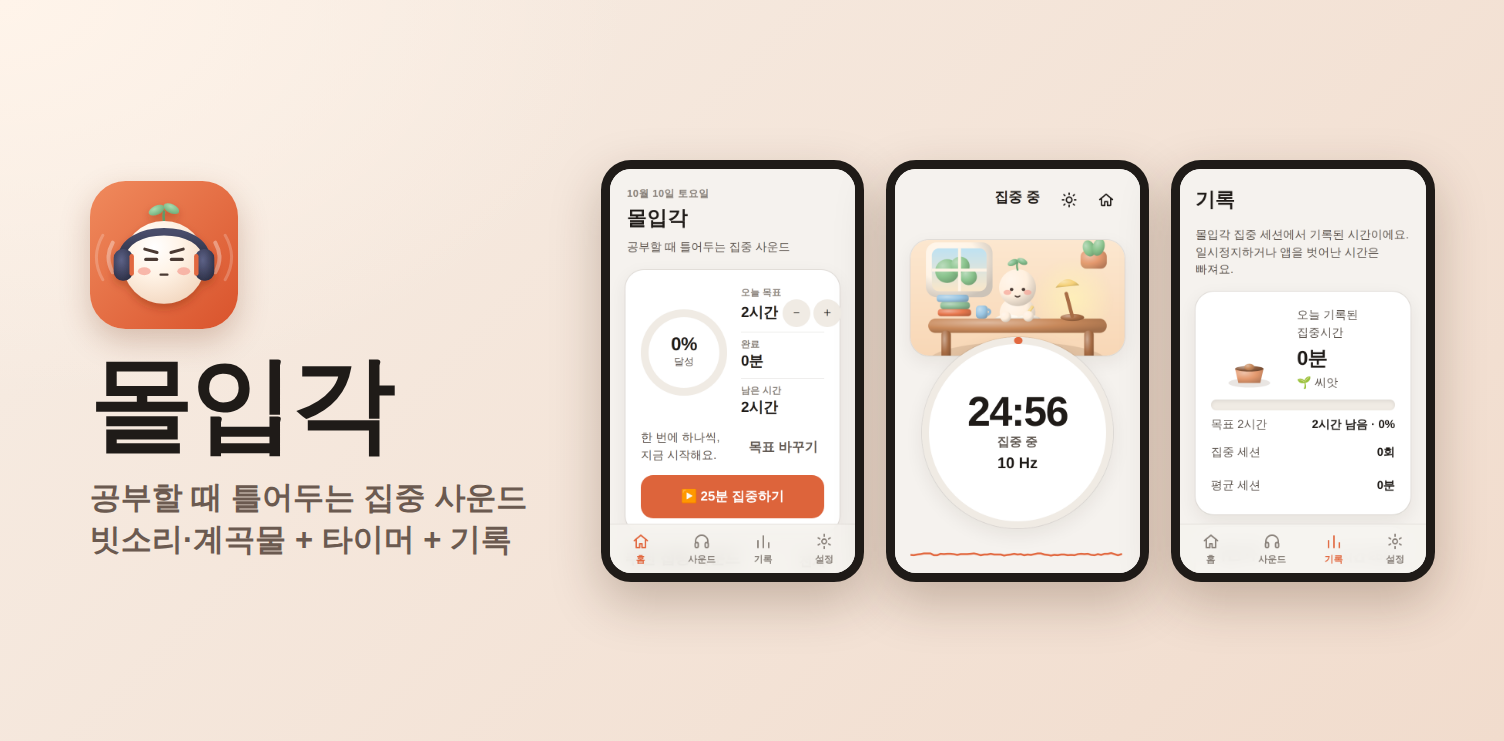
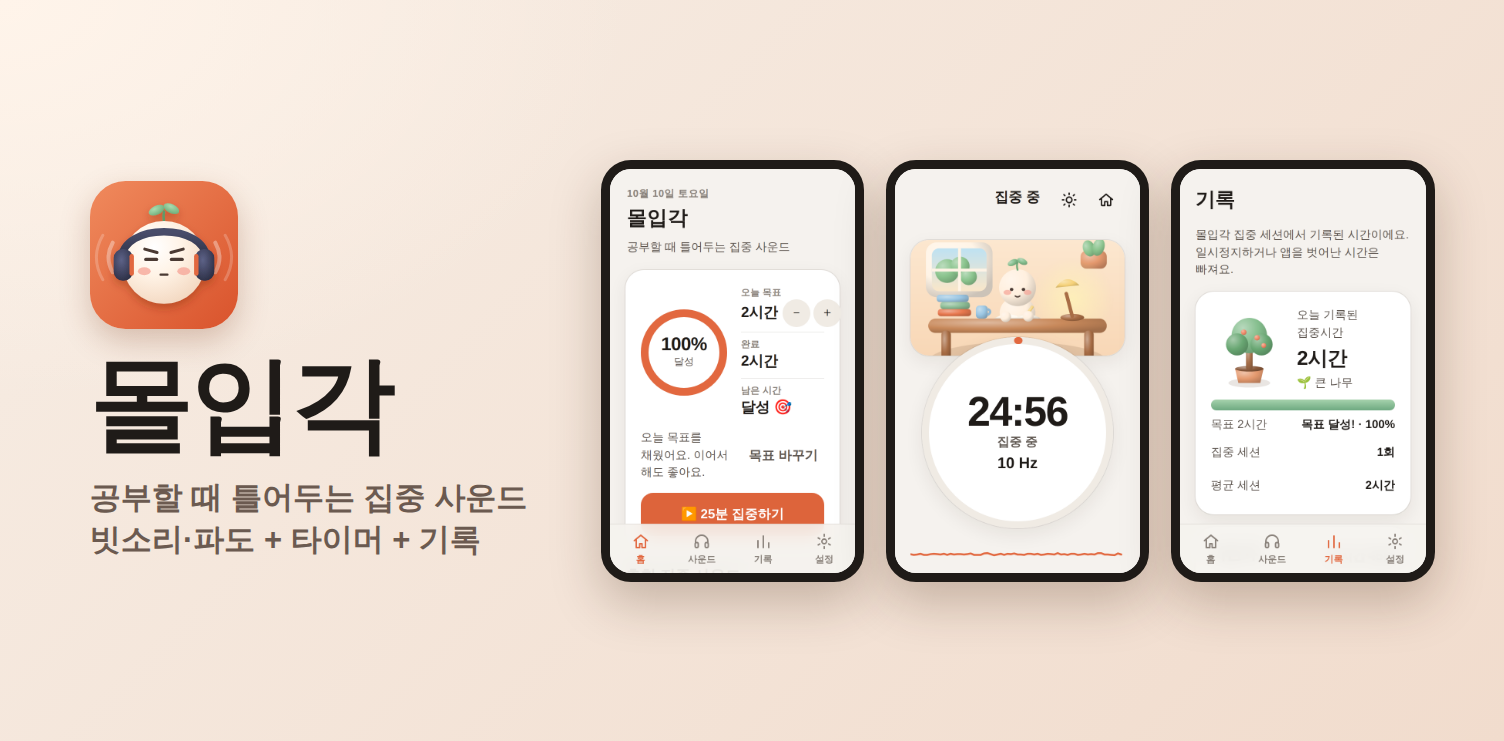
Sounds: drizzle (보슬비) replaces eaves rain; valley stream retired
- rain_01 is now a fine, light drizzle: airy hiss, many tiny quiet drops,
  almost no heavy ones; eaves drips removed; loudness recalibrated
- stream_01 (계곡물) removed; recipes 파도 몰입 and 산바람 호흡 take the
  place of the stream recipes; quick picks updated (18 sounds)
- Store screenshots pin the clock to the afternoon so the sample week
  always shows today's progress
- Checks, console text, promo copy and README follow

Claude-Session: https://claude.ai/code/session_01HfKwmXDDrsS3TG1hgAu2GZ

diff --git a/src/audio/ambient/synths.ts b/src/audio/ambient/synths.ts
@@ -87,20 +87,6 @@ const rainHeavy = (ctx: BaseAudioContext, key: string, perSecond: number) =>
     }
   });
 
-/** Water dripping from the eaves into a puddle: sparse soft "plip"s (pitch rising a little, like a drop into water), sometimes two close together. */
-const eaveDrips = (ctx: BaseAudioContext) =>
-  eventBuffer(ctx, 'eaves', 13.7, (L, R, sr, rnd) => {
-    let t = 0.3;
-    while (t < 13.4) {
-      const n = rnd() < 0.25 ? 2 : 1;
-      for (let k = 0; k < n; k++) {
-        const ev = ping(sr, rnd, 650 + rnd() * 650, 0.018 + rnd() * 0.018, 0.22 + 0.28 * rnd(), 0.12, 1.35 + rnd() * 0.25);
-        addEvent(L, R, Math.floor((t + k * (0.12 + rnd() * 0.1)) * sr), ev, rnd() * 1.2 - 0.6);
-      }
-      t += 1 + rnd() * 2;
-    }
-  });
-
 const crackles = (ctx: BaseAudioContext) =>
   eventBuffer(ctx, 'crackle', 12, (L, R, sr, rnd) => {
     let t = 0.05;
@@ -211,6 +197,8 @@ interface RainOpts {
   hiss: number;
   body: number;
   patter: number;
+  /** Level of the fine patter layer (default 1). */
+  patterGain?: number;
   heavy: number;
 }
 
@@ -236,7 +224,7 @@ function rainLayers(ctx: BaseAudioContext, dest: AudioNode, s: Sources, o: RainO
   wander(ctx, hiss.gain, `rain-hiss-${o.key}`, o.hiss * 0.25, 0.15, s);
   noiseBed(ctx, 'brown', chain(filt(ctx, 'lowpass', 220), out), o.body, s);
   // Each bed plays its buffer twice, so buffers hold half the target density.
-  eventBed(ctx, rainPatter(ctx, o.key, o.patter / 2), chain(filt(ctx, 'highpass', 1400), filt(ctx, 'lowpass', Math.min(16000, o.lp * 1.6)), out), 1, s);
+  eventBed(ctx, rainPatter(ctx, o.key, o.patter / 2), chain(filt(ctx, 'highpass', 1400), filt(ctx, 'lowpass', Math.min(16000, o.lp * 1.6)), out), o.patterGain ?? 1, s);
   const heavy = eventBed(ctx, rainHeavy(ctx, o.key, o.heavy / 2), chain(filt(ctx, 'highpass', 250), filt(ctx, 'lowpass', o.lp), out), 0.9, s);
   wander(ctx, heavy.gain, `rain-heavy-${o.key}`, 0.35, 0.07, s);
 }
@@ -246,11 +234,10 @@ const RECIPES: Record<SynthId, Recipe> = {
   pink: plainNoise('pink'),
   brown: plainNoise('brown'),
 
-  // 처마 밑 빗소리: gentle rain with water dripping now and then from the eaves into a puddle.
+  // 보슬비: fine, light drizzle — a soft airy hiss and many tiny quiet drops, almost no heavy ones.
   rain: (ctx, out) => {
     const s: Sources = [];
-    rainLayers(ctx, out, s, { key: 'eaves', lp: 5000, hiss: 0.42, body: 0.14, patter: 45, heavy: 5 });
-    eventBed(ctx, eaveDrips(ctx), chain(filt(ctx, 'lowpass', 2600), out), 0.6, s);
+    rainLayers(ctx, out, s, { key: 'drizzle', lp: 4500, hiss: 0.4, body: 0.1, patter: 110, patterGain: 0.45, heavy: 1 });
     return s;
   },
   softRain: (ctx, out) => {
@@ -318,19 +305,6 @@ const RECIPES: Record<SynthId, Recipe> = {
     return s;
   },
 
-  // 계곡물: water running softly over stones — a band of noise whose colour and level move quickly
-  // and irregularly, a gentle airy top and a low body. No pitched bubbles.
-  stream: (ctx, out) => {
-    const s: Sources = [];
-    const bp = filt(ctx, 'bandpass', 800, 0.7);
-    const flow = noiseBed(ctx, 'pink', chain(bp, out), 0.55, s);
-    wander(ctx, bp.frequency, 'brook-colour', 350, 2.2, s);
-    wander(ctx, flow.gain, 'brook-level', 0.18, 1.6, s);
-    const air = noiseBed(ctx, 'white', chain(filt(ctx, 'bandpass', 2600, 0.9), filt(ctx, 'lowpass', 5000), out), 0.06, s);
-    wander(ctx, air.gain, 'brook-air', 0.025, 3, s);
-    noiseBed(ctx, 'brown', chain(filt(ctx, 'lowpass', 300), out), 0.3, s);
-    return s;
-  },
   fire: (ctx, out) => {
     const s: Sources = [];
     const g = loop(ctx, noiseBuffer(ctx, 'brown'), chain(filt(ctx, 'lowpass', 450), out), 0.7, s);
@@ -384,11 +358,11 @@ const RECIPES: Record<SynthId, Recipe> = {
  */
 const RAW_DB: Record<SynthId, number> = {
   white: -14.0, pink: -14.0, brown: -14.0,
-  rain: -22.4, softRain: -21.2,
+  rain: -22.2, softRain: -21.2,
   waves: -18.2, slowWaves: -18.3,
   wind: -22.0, mountainWind: -23.7,
   forest: -30.2, birds: -30.6, nightForest: -28.1,
-  stream: -22.8, fire: -17.7,
+  fire: -17.7,
   train: -17.1, cityNight: -17.6,
   deepRumble: -12.9,
   calmPad: -22.6, lullaby: -23.7,

diff --git a/src/sounds/recipes.ts b/src/sounds/recipes.ts
@@ -19,8 +19,8 @@ export interface Recipe {
 }
 
 export const RECIPES: readonly Recipe[] = [
-  { id: 'focus-rain', mode: 'focus', name: '빗속 집중', desc: '처마 밑 빗소리 + 10Hz', beat: 10, tracks: [{ id: 'rain_01', volume: 0.55 }], intensity: 0.35, colors: ['#5b8def', '#23395d'] },
-  { id: 'focus-stream', mode: 'focus', name: '계곡 몰입', desc: '계곡물 + 핑크 노이즈 + 12Hz', beat: 12, tracks: [{ id: 'stream_01', volume: 0.5 }, { id: 'noise_pink', volume: 0.25 }], intensity: 0.3, colors: ['#5fb3c9', '#1d3b4a'] },
+  { id: 'focus-rain', mode: 'focus', name: '빗속 집중', desc: '보슬비 + 10Hz', beat: 10, tracks: [{ id: 'rain_01', volume: 0.55 }], intensity: 0.35, colors: ['#5b8def', '#23395d'] },
+  { id: 'focus-waves', mode: 'focus', name: '파도 몰입', desc: '파도 + 핑크 노이즈 + 12Hz', beat: 12, tracks: [{ id: 'waves_01', volume: 0.5 }, { id: 'noise_pink', volume: 0.25 }], intensity: 0.3, colors: ['#5fb3c9', '#1d3b4a'] },
   { id: 'focus-deep', mode: 'focus', name: '밤 도시 딥워크', desc: '밤의 도시 + 브라운 노이즈 + 14Hz', beat: 14, tracks: [{ id: 'city_night_01', volume: 0.5 }, { id: 'noise_brown', volume: 0.3 }], intensity: 0.3, colors: ['#7a86c9', '#1f2340'] },
   { id: 'focus-fire', mode: 'focus', name: '장작불 공부', desc: '장작불 + 10Hz', beat: 10, tracks: [{ id: 'fire_01', volume: 0.55 }], intensity: 0.35, colors: ['#f08a4b', '#4a1f1a'] },
   { id: 'focus-forest', mode: 'focus', name: '새벽 숲 워밍업', desc: '숲 + 새소리 + 8Hz', beat: 8, tracks: [{ id: 'forest_01', volume: 0.55 }, { id: 'birds_01', volume: 0.35 }], intensity: 0.3, colors: ['#5fb38a', '#1d3b34'] },
@@ -29,7 +29,7 @@ export const RECIPES: readonly Recipe[] = [
   { id: 'sleep-ocean', mode: 'sleep', name: '밤바다', desc: '밤바다 파도 + 2Hz', beat: 2, tracks: [{ id: 'sleep_waves_01', volume: 0.55 }], intensity: 0.25, colors: ['#3f86b8', '#0e1f3a'] },
   { id: 'sleep-forest', mode: 'sleep', name: '밤의 숲', desc: '밤의 숲 + 4Hz', beat: 4, tracks: [{ id: 'night_forest_01', volume: 0.55 }], intensity: 0.25, colors: ['#4f7a6a', '#0f1d22'] },
   { id: 'relax-forest', mode: 'relax', name: '숲 명상', desc: '숲 + 6Hz', beat: 6, tracks: [{ id: 'forest_01', volume: 0.55 }], intensity: 0.3, colors: ['#7cc49a', '#22413a'] },
-  { id: 'relax-stream', mode: 'relax', name: '계곡 호흡', desc: '계곡물 + 잔잔한 앰비언트 + 6Hz', beat: 6, tracks: [{ id: 'stream_01', volume: 0.5 }, { id: 'calm_pad_01', volume: 0.35 }], intensity: 0.3, colors: ['#e7a07a', '#5b3e64'] },
+  { id: 'relax-wind', mode: 'relax', name: '산바람 호흡', desc: '산바람 + 잔잔한 앰비언트 + 6Hz', beat: 6, tracks: [{ id: 'mountain_wind_01', volume: 0.5 }, { id: 'calm_pad_01', volume: 0.35 }], intensity: 0.3, colors: ['#e7a07a', '#5b3e64'] },
 ];
 
 export const recipesFor = (mode: UseCase) => RECIPES.filter((r) => r.mode === mode);

diff --git a/src/sounds/catalog.ts b/src/sounds/catalog.ts
@@ -29,9 +29,9 @@ export function soundsFor(useCase: UseCase): SoundMeta[] {
 
 /** Short picks shown directly on each mode screen (most useful first). */
 export const QUICK_PICKS: Record<UseCase, string[]> = {
-  focus: ['rain_01', 'stream_01', 'fire_01', 'waves_01', 'forest_01', 'noise_pink'],
+  focus: ['rain_01', 'fire_01', 'waves_01', 'forest_01', 'noise_pink', 'noise_brown'],
   sleep: ['soft_rain_01', 'sleep_waves_01', 'night_forest_01', 'wind_01', 'noise_brown', 'noise_pink', 'lullaby_01'],
-  relax: ['forest_01', 'mountain_wind_01', 'stream_01', 'birds_01', 'calm_pad_01'],
+  relax: ['forest_01', 'mountain_wind_01', 'waves_01', 'birds_01', 'calm_pad_01'],
 };
 
 /** Default mix per mode (first run). */

diff --git a/src/sounds/types.ts b/src/sounds/types.ts
@@ -9,7 +9,7 @@ export type SynthId =
   | 'waves' | 'slowWaves'
   | 'wind' | 'mountainWind'
   | 'forest' | 'birds' | 'nightForest'
-  | 'stream' | 'fire'
+  | 'fire'
   | 'train' | 'cityNight'
   | 'deepRumble'
   | 'calmPad' | 'lullaby';

diff --git a/README.md b/README.md
@@ -27,7 +27,7 @@ node scripts/build-preview.mjs [out.html] [web]  # 브라우저 미리보기용 
 |---|---|---|
 | 1 | 전체 UI/UX (Home·Focus·Sleep·Relax·Library·Mixer·Binaural·Timer·Result·Stats·Settings) | ✅ |
 | 2 | Binaural Beat 엔진 (L/R 분리, fade, ramp) | ✅ |
-| 3 | Ambient / Noise / Mixer (절차적 합성 19종 + 파일 교체 구조) | ✅ |
+| 3 | Ambient / Noise / Mixer (절차적 합성 18종 + 파일 교체 구조) | ✅ |
 | 4 | 타이머 (카운트다운·카운트업·목표, 시·분·초, 루틴, 수면 페이드 종료) | ✅ |
 | 5 | 집중시간 기록 (이탈 감지, 오늘/주/월/전체, 7일 그래프, 목표, 나무) | ✅ |
 | 5b | 자동 주파수 변화, 나의 루틴, 종료 방식 5종 | ✅ |
@@ -49,7 +49,7 @@ Anima: Binaural Beats와의 기능 비교와 차용 결정은 [docs/anima-compar
 
 ### 추천 사운드 · 강도 · 스피커용 · 내 믹스
 
-- **추천 사운드(레시피)** `src/sounds/recipes.ts`: 배경음 + 집중 사운드를 미리 묶은 11종(예: 계곡 몰입 = 계곡물+핑크노이즈+12Hz). 한 탭으로 적용.
+- **추천 사운드(레시피)** `src/sounds/recipes.ts`: 배경음 + 집중 사운드를 미리 묶은 11종(예: 파도 몰입 = 파도+핑크노이즈+12Hz). 한 탭으로 적용.
 - **강도**: 집중 사운드만 따로 줄이고 키우는 슬라이더(배경음 아래로 깔 수 있게).
 - **이어폰용 / 스피커용**: 이어폰용은 바이노럴 비트(좌우 다른 음), 스피커용은 아이소크로닉 톤(한 음을 규칙적으로 켜고 끔,
   `IsochronicTone.ts`). 연구 대부분은 바이노럴 비트 대상이며 아이소크로닉 톤 근거는 더 적다 — 앱은 효과를 주장하지 않는다.

diff --git a/store-assets/console-text.md b/store-assets/console-text.md
@@ -19,10 +19,10 @@
 ```
 공부할 때 틀어두는 집중 사운드, 몰입각.
 
-빗소리·계곡물·장작불 같은 배경음에 집중 사운드(바이노럴 비트)를 섞어 들으며
+보슬비·파도·장작불 같은 배경음에 집중 사운드(바이노럴 비트)를 섞어 들으며
 25분·50분·90분·2시간 타이머로 공부하고, 기록된 집중시간을 하루 목표와 함께 확인해요.
 
-• 추천 사운드: "빗속 집중", "계곡 몰입"처럼 미리 맞춘 조합을 한 번에
+• 추천 사운드: "빗속 집중", "파도 몰입"처럼 미리 맞춘 조합을 한 번에
 • 이어폰용·스피커용: 이어폰이 없어도 들을 수 있는 스피커용 모드
 • 내 믹스 저장: 마음에 드는 소리 조합을 이름 붙여 저장
 • 집중 이탈 감지: 집중 중 앱을 벗어나면 기록을 잠시 멈추고, 돌아오면 이어서
@@ -37,7 +37,7 @@
 ## 검색 키워드 (칸이 있으면)
 
 ```
-공부, 집중, 공부 사운드, 빗소리, 계곡물 소리, 백색소음, 뽀모도로, 타이머, 집중 타이머, 공부 기록, 수면 사운드, 바이노럴 비트, 알파파 사운드, 화이트노이즈, 핑크노이즈, 브라운노이즈
+공부, 집중, 공부 사운드, 빗소리, 보슬비 소리, 백색소음, 뽀모도로, 타이머, 집중 타이머, 공부 기록, 수면 사운드, 바이노럴 비트, 알파파 사운드, 화이트노이즈, 핑크노이즈, 브라운노이즈
 ```
 
 ## 이미지 (이 폴더의 파일)
